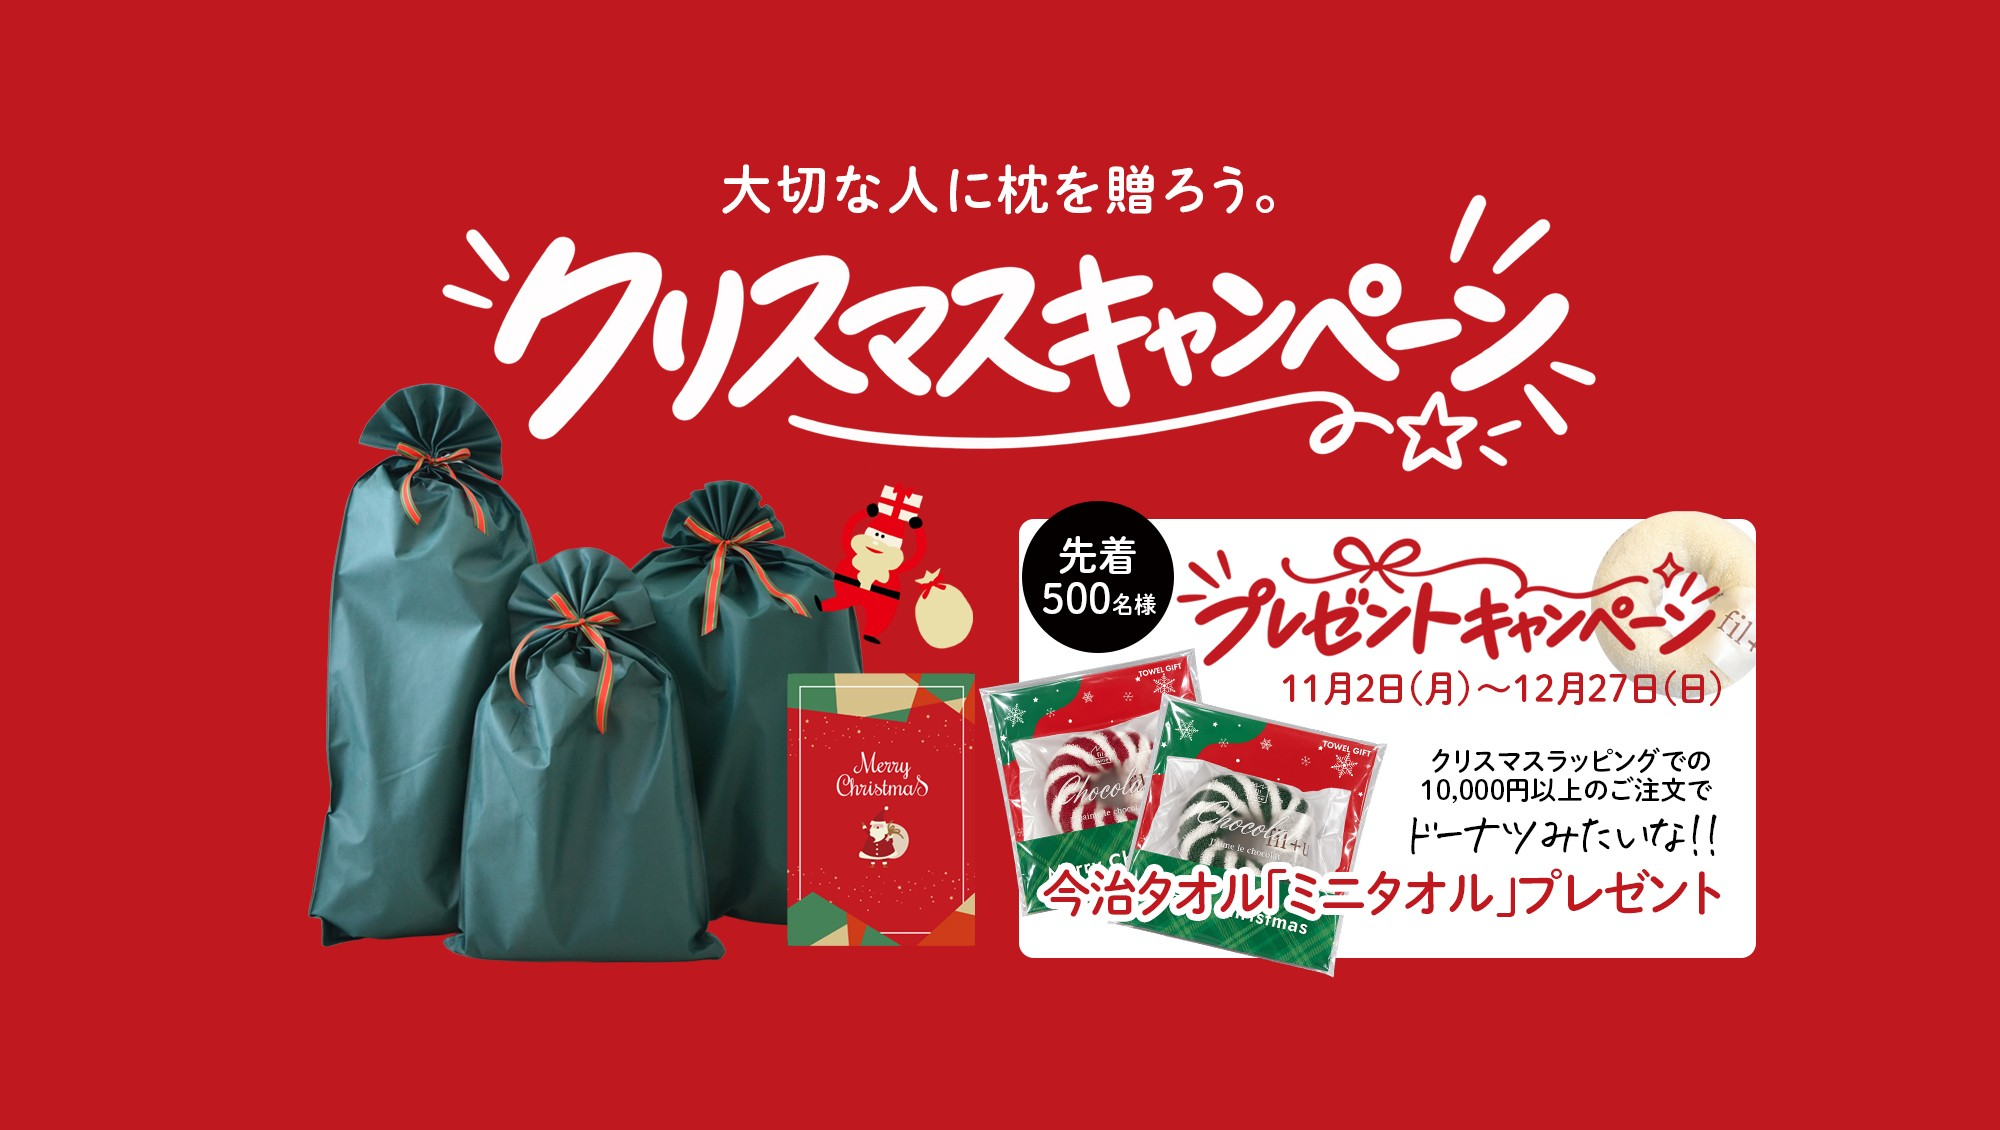
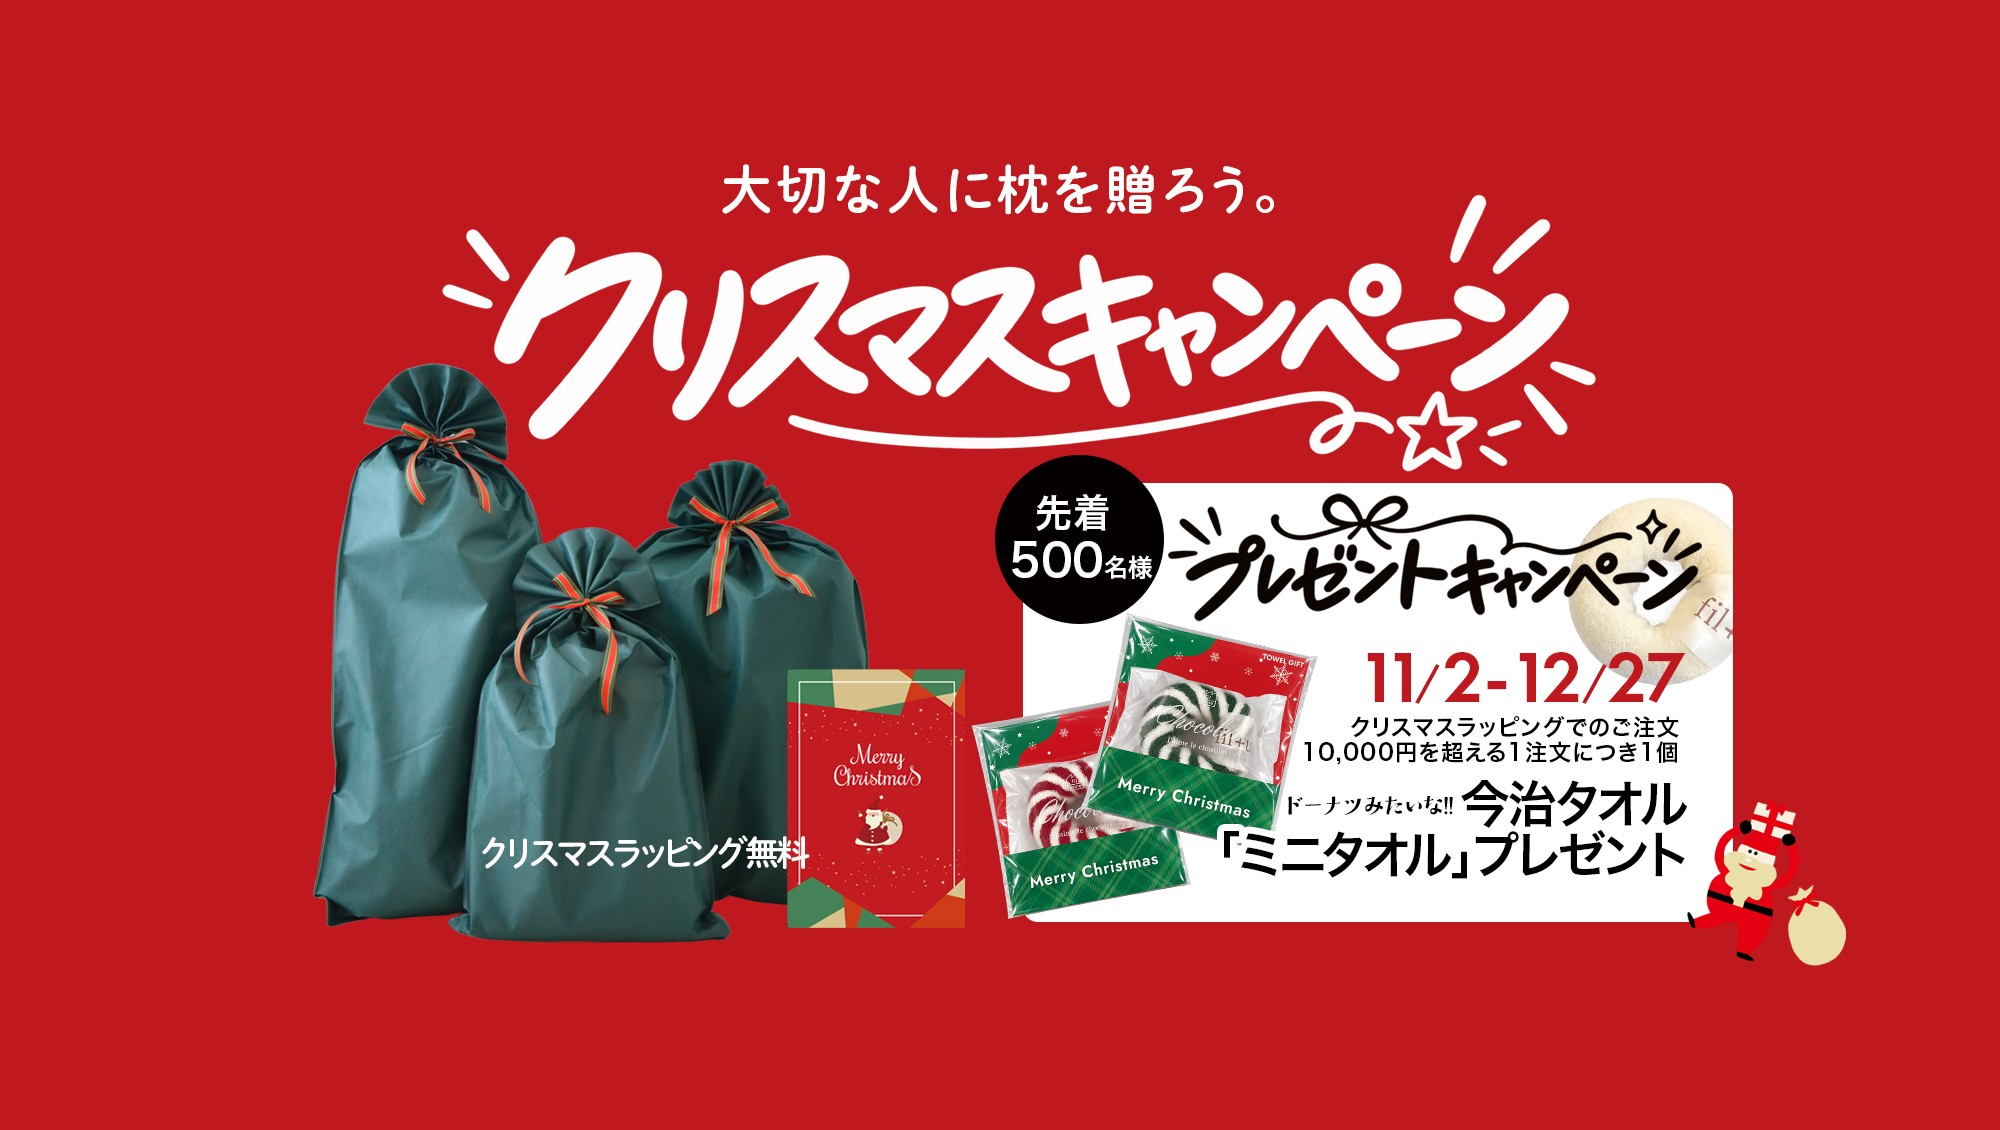
feat: PC・スマホ看板を最新版に差し替え

Changed region(s): [[0.155, 0.3097, 0.93, 0.8673]]

diff --git a/index.html b/index.html
@@ -98,11 +98,11 @@
 <div class="xm-sparkle js-sparkle" aria-hidden="true"></div>
 <!-- PC -->
 <div class="d-none d-md-block">
-<a href="https://www.rakuten.co.jp/oyasumi/contents/makura/present/christmas/"><img src="img/christmas_kanban_pc.jpg" width="2000" height="1130" alt="大切な人に枕を贈ろう。クリスマスキャンペーン 先着500名様 今治タオル「ミニタオル」プレゼント 11月2日（月）〜12月27日（日）"/></a>
+<a href="https://www.rakuten.co.jp/oyasumi/contents/makura/present/christmas/"><img src="img/christmas_kanban_pc.jpg" width="2000" height="1130" alt="大切な人に枕を贈ろう。クリスマスキャンペーン クリスマスラッピング無料 先着500名様 プレゼントキャンペーン 11/2-12/27 クリスマスラッピングでのご注文10,000円を超える1注文につき1個 今治タオル「ミニタオル」プレゼント"/></a>
 </div>
 <!-- スマホ -->
 <div class="d-block d-md-none">
-<a href="https://www.rakuten.co.jp/oyasumi/contents/makura/present/christmas/"><img src="img/christmas_kanban_sp.jpg" width="1000" height="1200" alt="大切な人に枕を贈ろう。クリスマスキャンペーン 先着500名様 今治タオル「ミニタオル」プレゼント 11月2日（月）〜12月27日（日）"/></a>
+<a href="https://www.rakuten.co.jp/oyasumi/contents/makura/present/christmas/"><img src="img/christmas_kanban_sp.jpg" width="1000" height="1200" alt="大切な人に枕を贈ろう。クリスマスキャンペーン クリスマスラッピング無料 先着500名様 プレゼントキャンペーン 11/2-12/27 クリスマスラッピングでのご注文10,000円を超える1注文につき1個 今治タオル「ミニタオル」プレゼント"/></a>
 </div>
 </div>
 
